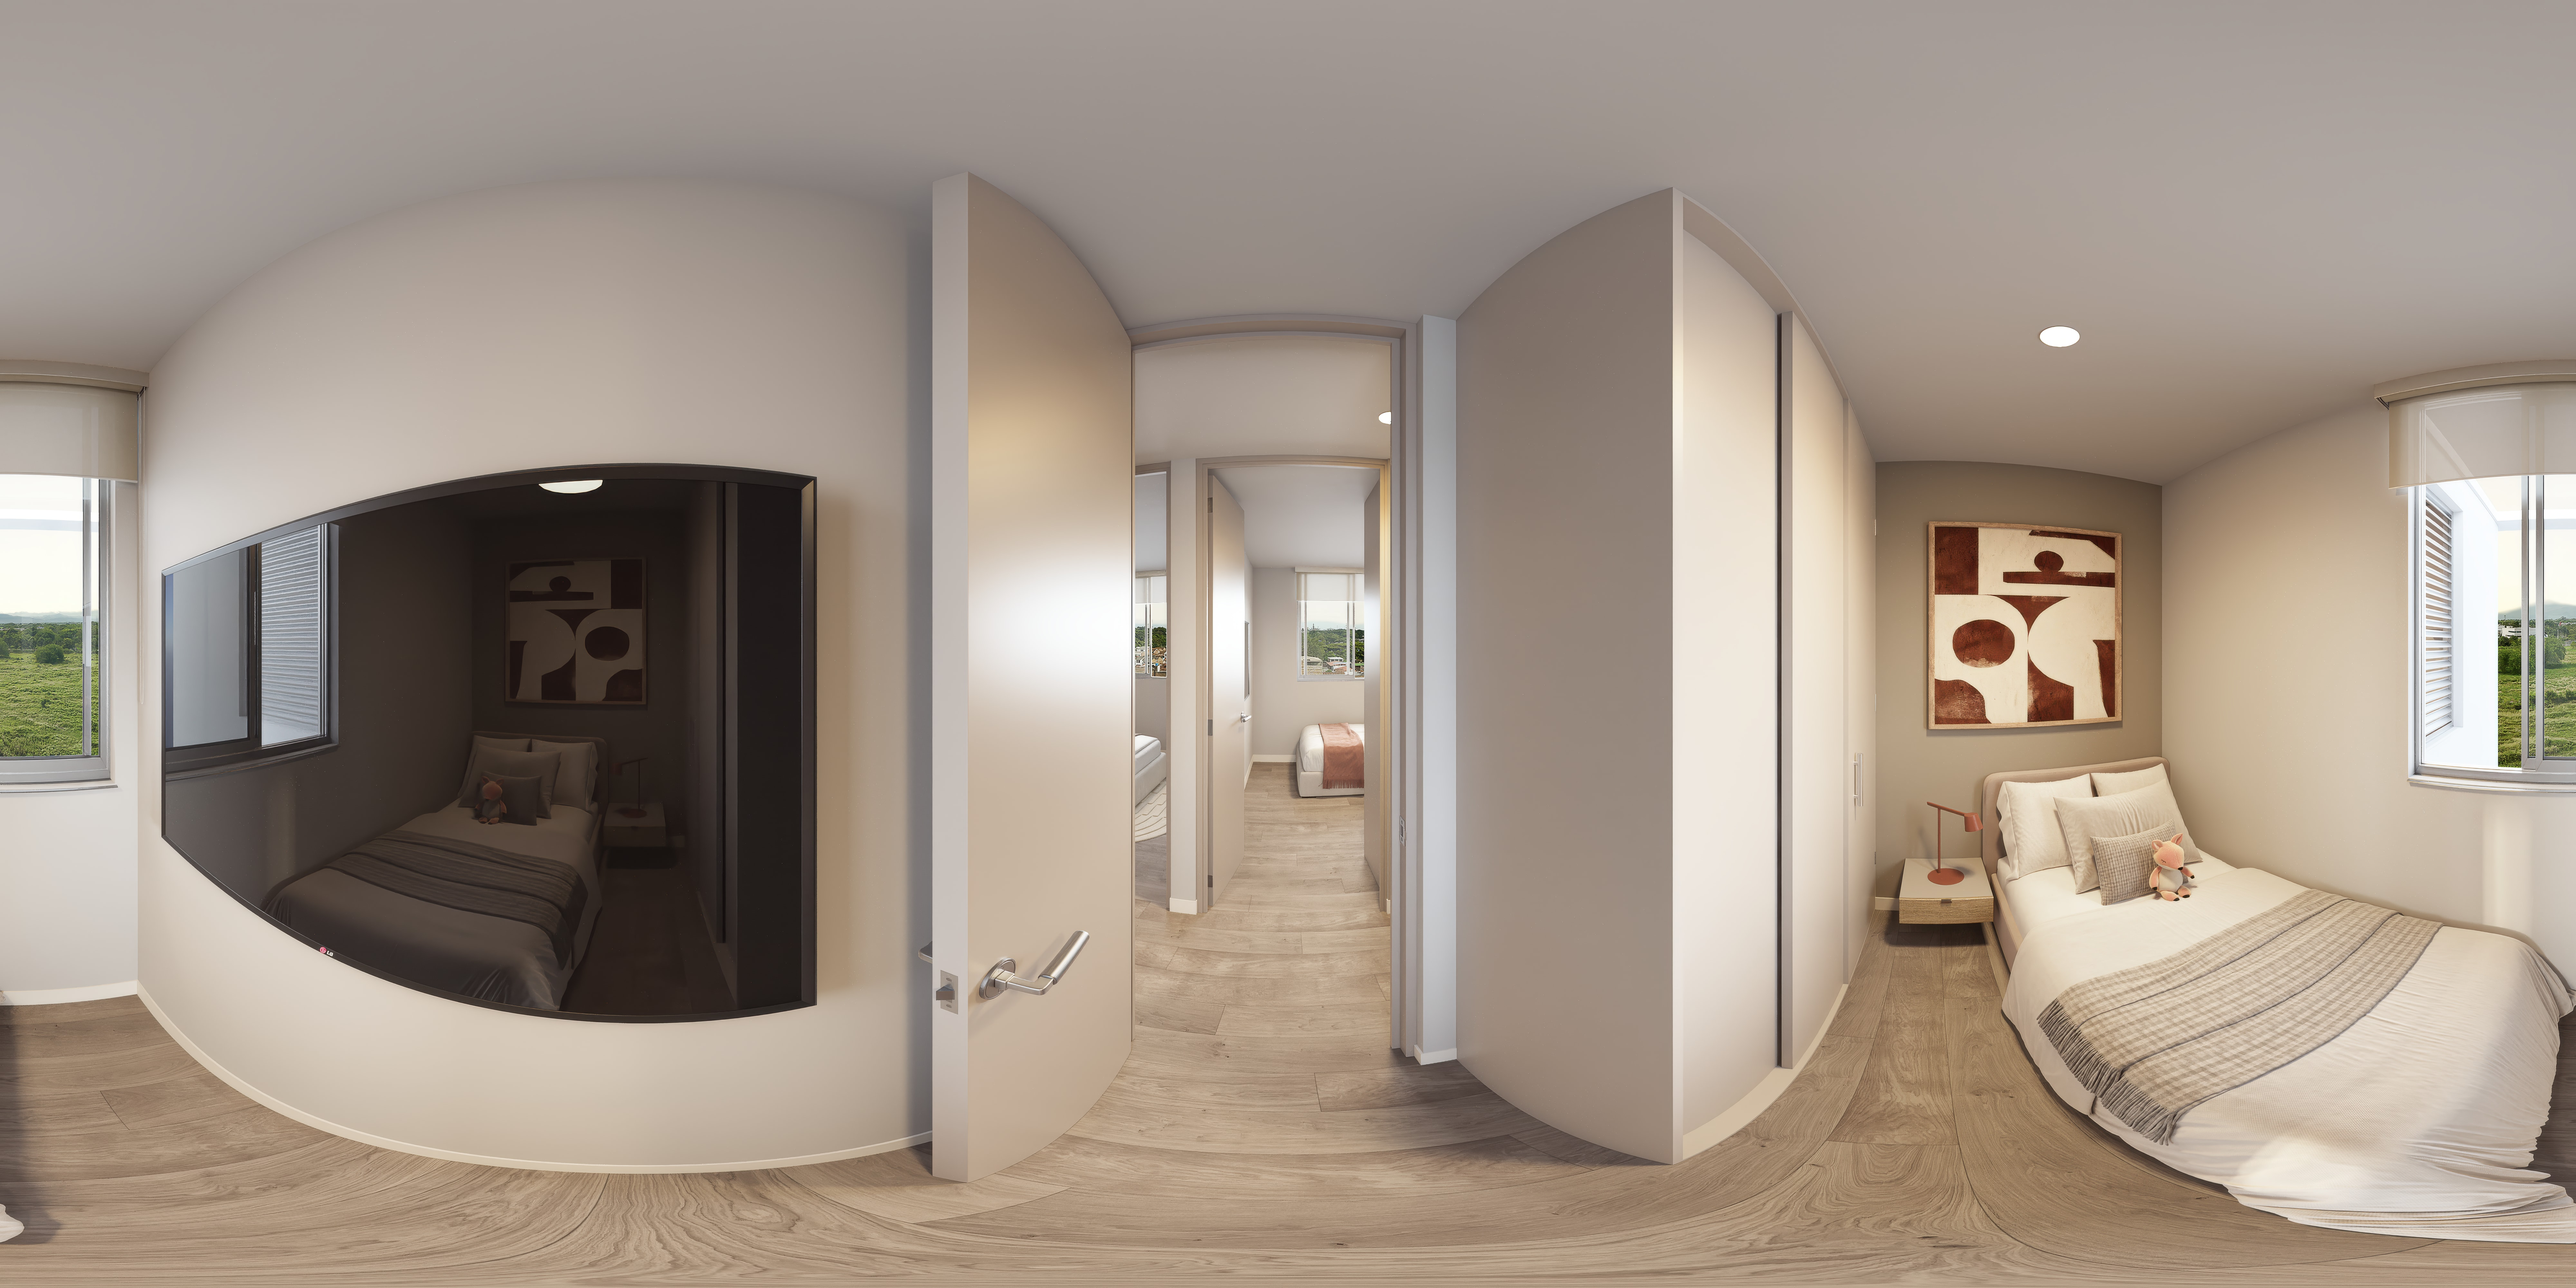
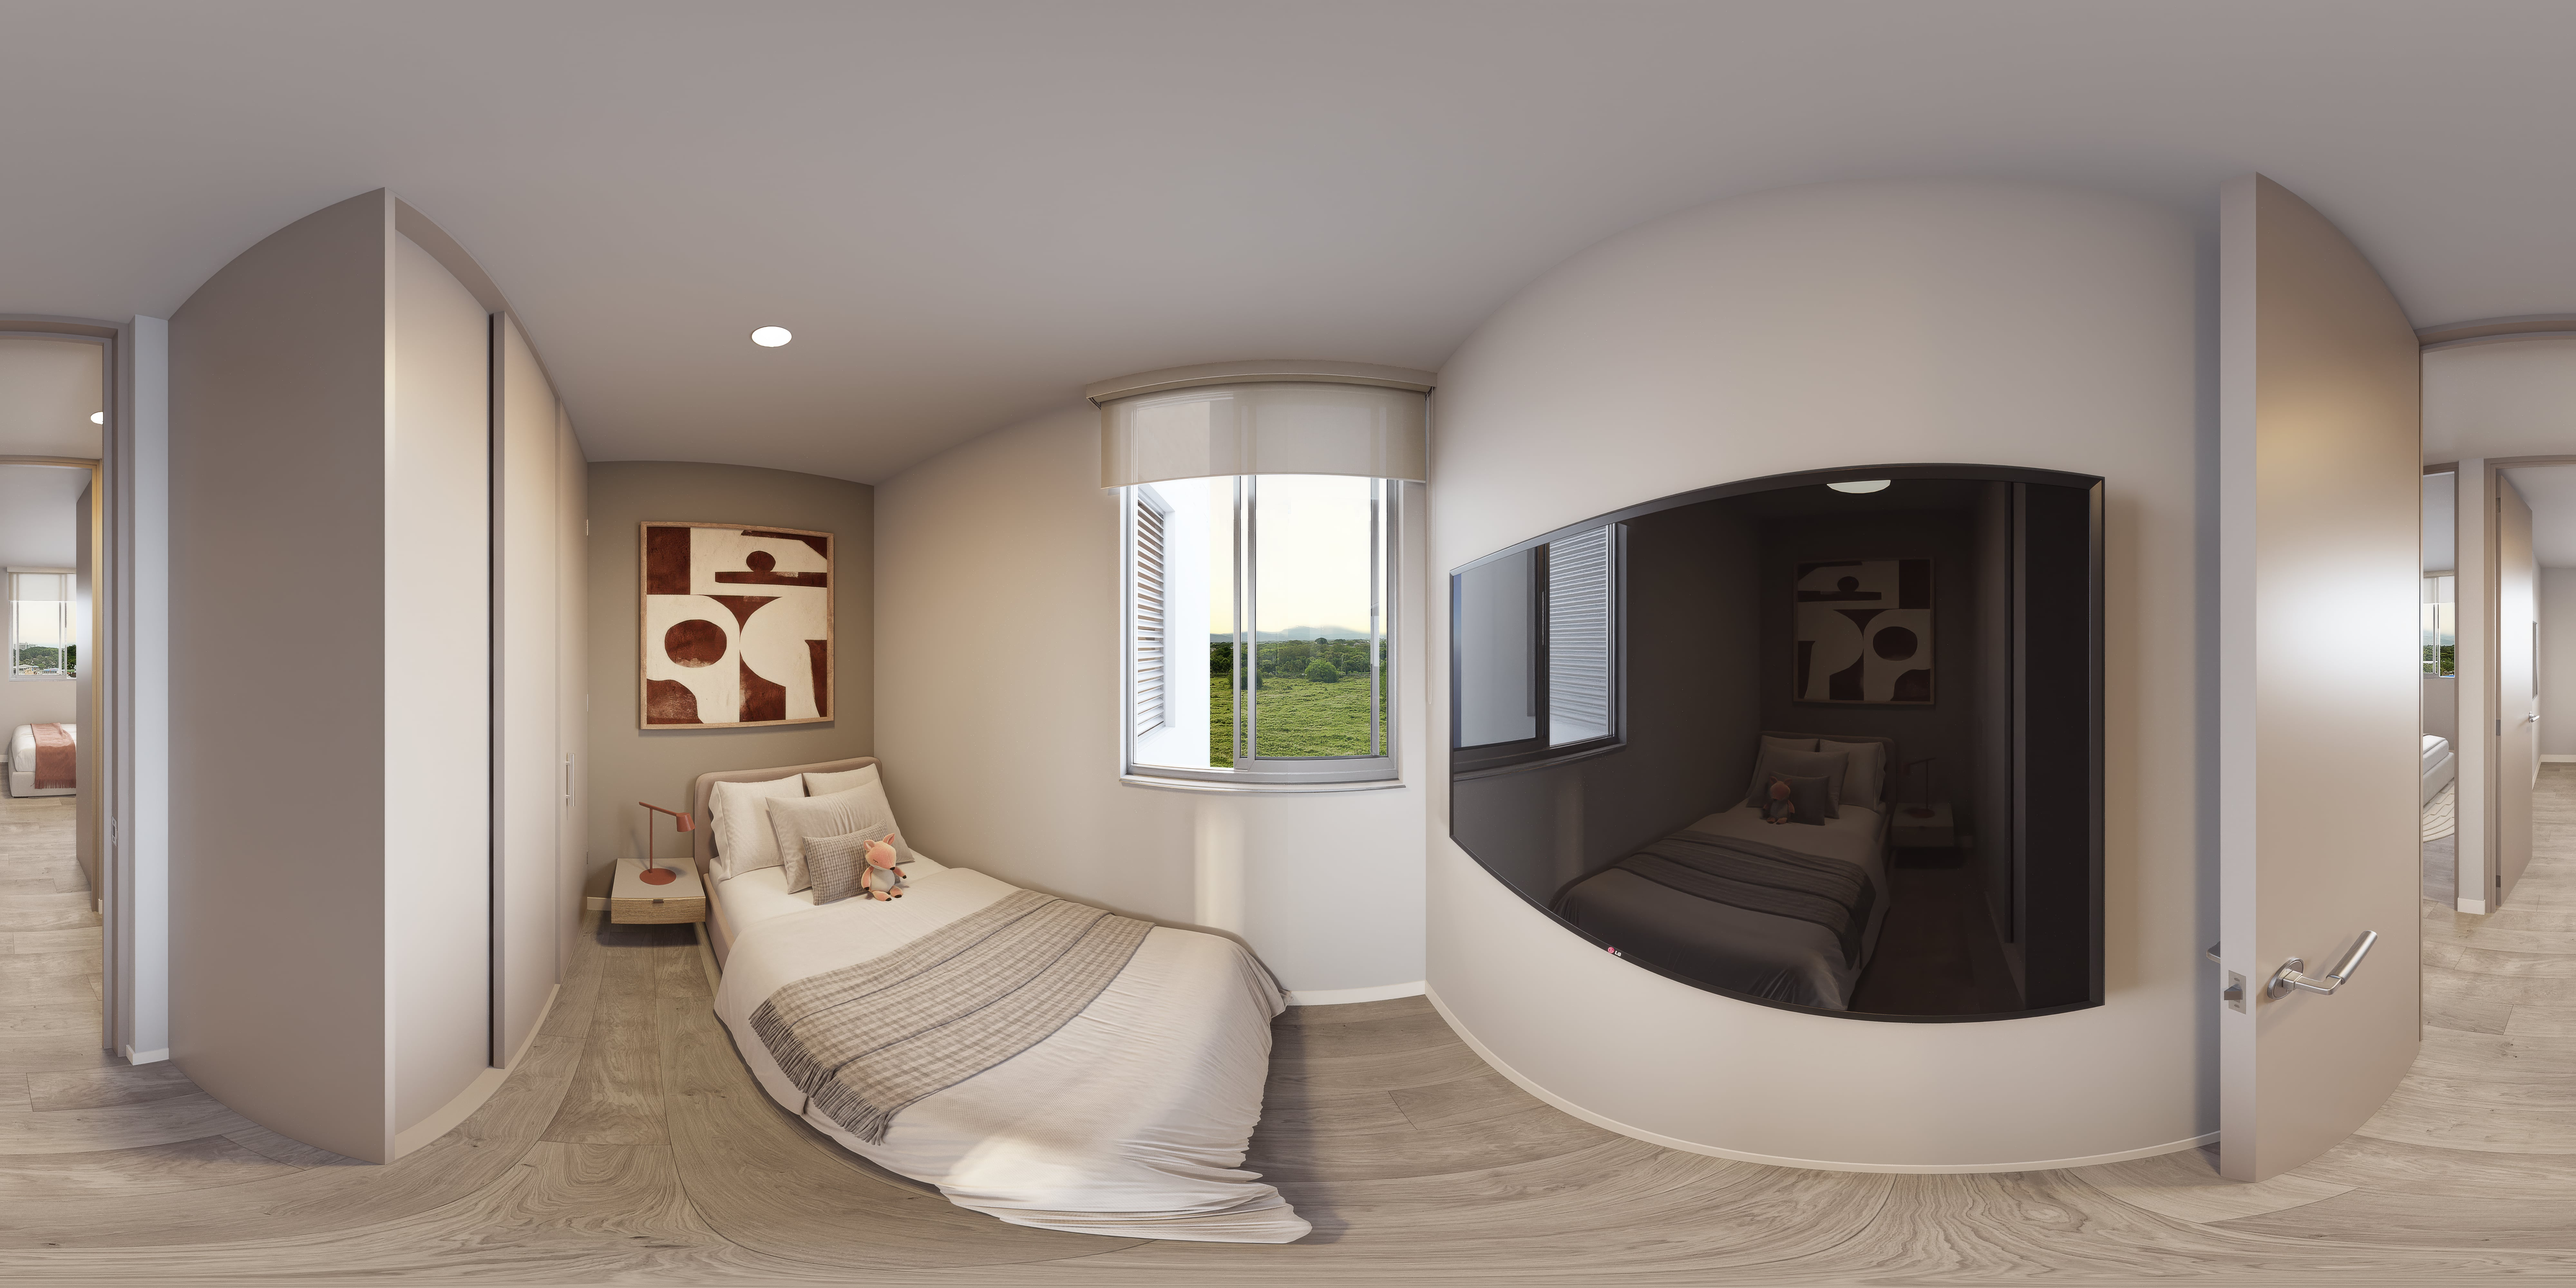
feat(valle-alto): mayor resolucion, alineacion de variantes/radar y build para raiz
- Panoramas Tipo A reemplazados a 8000x4000; Tipo B Espacio Multiple 2 reemplazado (+ version VR)

- Recalibrada vista Tipo B Espacio Multiple 2 (hotspot + boton variante)

- Nuevo linkYawOffset: al alternar variante se conserva la direccion fisica de mirada

- Nuevo radarYawOffset por habitacion: el cono del radar apunta correcto en el plano

- Despliegue en raiz del dominio: basePath/assetPrefix vacios y asset-path.ts sin /NEXARQ

- .gitignore: ignorar *.zip y out/

diff --git a/src/components/pano-viewer.tsx b/src/components/pano-viewer.tsx
@@ -391,6 +391,9 @@ const PanoViewer = forwardRef<PanoViewerHandle, PanoViewerProps>(
     const activeLayerRef = useRef<'A' | 'B'>('A');
     const cssInjected = useRef(false);
     const transitionLock = useRef(false);
+    // Offset de yaw pendiente para la proxima transicion por enlace de variante
+    // (compensa la desalineacion de "norte" entre los dos renders del cuarto).
+    const pendingYawOffsetRef = useRef(0);
     // Animaciones de playback — handles del rAF activo y del timeout de arranque
     const playbackRafRef = useRef<number | null>(null);
     const playbackTimeoutRef = useRef<ReturnType<typeof setTimeout> | null>(null);
@@ -524,6 +527,9 @@ const PanoViewer = forwardRef<PanoViewerHandle, PanoViewerProps>(
                 if (nextVariant.linkVariantId) {
                   setSceneVariant(nextVariant.linkSceneId, nextVariant.linkVariantId);
                 }
+                // Compensa la desalineacion de norte entre los dos renders:
+                // la transicion sumara este offset al yaw preservado.
+                pendingYawOffsetRef.current = nextVariant.linkYawOffset ?? 0;
                 setCurrentScene(nextVariant.linkSceneId);
               } else {
                 setSceneVariant(sceneId, nextVariant.id);
@@ -654,12 +660,14 @@ const PanoViewer = forwardRef<PanoViewerHandle, PanoViewerProps>(
           if (activeViewer) {
             preservedView = {
               pitch: activeViewer.getPitch(),
-              yaw: activeViewer.getYaw(),
+              yaw: activeViewer.getYaw() + pendingYawOffsetRef.current,
               hfov: activeViewer.getHfov(),
             };
           }
         } catch { /* ignore */ }
       }
+      // El offset se consume una sola vez por transicion.
+      pendingYawOffsetRef.current = 0;
 
       const isVariantOnly = lastSceneRef.current === currentSceneId;
       const mode: 'scene' | 'variant' = isVariantOnly ? 'variant' : 'scene';

diff --git a/src/projects/melendez/valle-alto/tour.config.ts b/src/projects/melendez/valle-alto/tour.config.ts
@@ -544,6 +544,8 @@ export const valleAltoTipoB: TourConfig = {
                   label: 'Como alcoba',
                   linkSceneId: 'va-tb-alcoba-opcion-2',
                   linkVariantId: 'alcoba',
+                  // Estudio -> Espacio Multiple 2: alinea el norte de ambos renders
+                  linkYawOffset: -166.5,
                 },
               ],
               variantButton: { pitch: 3.4, yaw: -146.6 },
@@ -659,9 +661,11 @@ export const valleAltoTipoB: TourConfig = {
                   label: 'Como espacio multiple',
                   linkSceneId: 'va-tb-estudio',
                   linkVariantId: 'estudio',
+                  // Espacio Multiple 2 -> Estudio: alinea el norte de ambos renders
+                  linkYawOffset: 166.5,
                 },
               ],
-              variantButton: { pitch: 0.8, yaw: 140.1 },
+              variantButton: { pitch: -2.2, yaw: -33.8 },
               playbackAnimations: [
                 { from: { pitch: -13, yaw: 139.8 }, to: { pitch: -13, yaw: 85.4 } },
               ],
@@ -669,7 +673,7 @@ export const valleAltoTipoB: TourConfig = {
               hotspots: [
                 {
                   id: 'va-tb-op2-to-aux',
-                  pitch: -1, yaw: 1,
+                  pitch: -3.1, yaw: -178.2,
                   type: 'scene',
                   label: 'Alcoba Auxiliar',
                   description: 'Ir a la alcoba auxiliar',
@@ -765,6 +769,8 @@ export const valleAltoTipoB: TourConfig = {
                 label: 'Espacio Multiple 2',
                 x: 170, y: 410, width: 40, height: 40,
                 dotX: 18.6, dotY: 53.2,
+                // El render nuevo de op2 quedo girado respecto al plano
+                radarYawOffset: -153.5,
                 adjacentTo: ['va-tb-alcoba-auxiliar'],
               },
               // Bano Alcoba Principal — zona central

diff --git a/src/components/floor-plan.tsx b/src/components/floor-plan.tsx
@@ -435,7 +435,7 @@ export default function FloorPlan() {
                           {/* Cono de vision grande (rota con el yaw) */}
                           <g
                             className="pointer-events-none fp-radar-cone"
-                            transform={`rotate(${viewerYaw}, ${dot.cx}, ${dot.cy})`}
+                            transform={`rotate(${viewerYaw + (room.radarYawOffset ?? 0)}, ${dot.cx}, ${dot.cy})`}
                           >
                             <path
                               d={`M ${dot.cx} ${dot.cy} L ${lx} ${ly} A ${coneR} ${coneR} 0 0 1 ${rx2} ${ry2} Z`}
@@ -630,7 +630,7 @@ export default function FloorPlan() {
                         return (
                           <g
                             className="pointer-events-none fp-radar-cone"
-                            transform={`rotate(${viewerYaw}, ${center.cx}, ${center.cy})`}
+                            transform={`rotate(${viewerYaw + (room.radarYawOffset ?? 0)}, ${center.cx}, ${center.cy})`}
                           >
                             <path
                               d={`M ${center.cx} ${center.cy} L ${lx} ${ly} A ${coneR} ${coneR} 0 0 1 ${rx2} ${ry2} Z`}

diff --git a/src/lib/tour-types.ts b/src/lib/tour-types.ts
@@ -42,6 +42,13 @@ export interface SceneVariantConfig {
   linkSceneId?: string;
   /** Variante a activar automaticamente en la escena destino (opcional). */
   linkVariantId?: string;
+  /**
+   * Offset de yaw (grados) que se SUMA a la direccion de mirada al navegar por
+   * este enlace. Compensa que los dos renders del mismo cuarto no esten
+   * alineados al mismo "norte", para que al alternar la variante el usuario
+   * siga mirando al mismo punto fisico. Calibrar por prueba (puede ser negativo).
+   */
+  linkYawOffset?: number;
 }
 
 // Animación de cámara para el modo reproducción.
@@ -87,6 +94,12 @@ export interface FloorPlanRoomConfig {
   dotX?: number;
   /** Posicion % vertical del radar sobre imagen real (0-100) */
   dotY?: number;
+  /**
+   * Offset de yaw (grados) que se SUMA a la rotacion del cono del radar para
+   * esta habitacion. Compensa que el "norte" del render no coincida con el
+   * del plano, para que el cono apunte en la direccion correcta.
+   */
+  radarYawOffset?: number;
   adjacentTo?: string[];
 }
 

diff --git a/next.config.ts b/next.config.ts
@@ -1,12 +1,12 @@
 import type { NextConfig } from "next";
 
-const isProd = process.env.NODE_ENV === "production";
-const repoName = "NEXARQ";
-
+// Despliegue en la RAIZ del dominio (sin subcarpeta).
+// Si en el futuro se publica bajo una subcarpeta, definir basePath/assetPrefix
+// con el nombre de esa carpeta (ej. basePath: "/valle-alto").
 const nextConfig: NextConfig = {
   output: "export",
-  basePath: isProd ? `/${repoName}` : "",
-  assetPrefix: isProd ? `/${repoName}/` : "",
+  basePath: "",
+  assetPrefix: "",
   trailingSlash: true,
   typescript: {
     ignoreBuildErrors: true,

diff --git a/src/lib/asset-path.ts b/src/lib/asset-path.ts
@@ -1,4 +1,7 @@
-const base = process.env.NODE_ENV === 'production' ? '/NEXARQ' : '';
+// Prefijo base de los assets. Debe coincidir con el basePath de next.config.ts.
+// Despliegue en la RAIZ del dominio -> vacio. Si se publica bajo subcarpeta
+// (ej. "/valle-alto"), poner ese mismo valor aqui.
+const base = '';
 
 export function assetPath(path: string): string {
   return `${base}${path}`;
